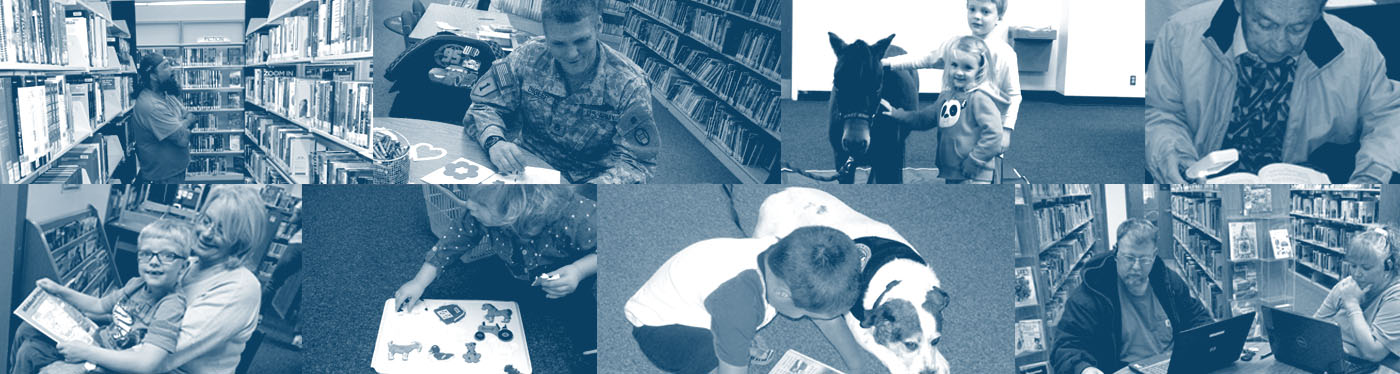
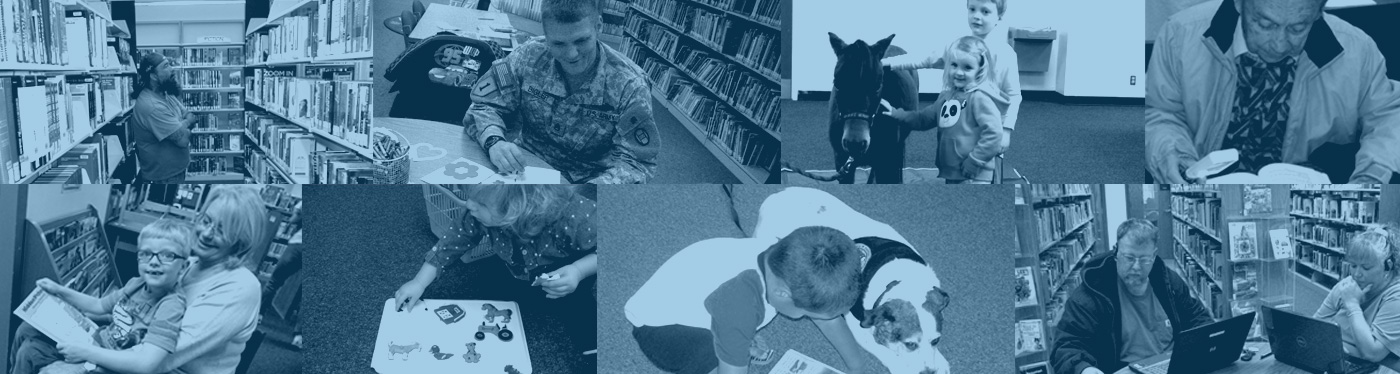
removed button shadow, changed header image, form text

diff --git a/wp-content/themes/kcpl_minisite/assets/sass/_layout.scss b/wp-content/themes/kcpl_minisite/assets/sass/_layout.scss
@@ -46,7 +46,7 @@ header {
 		.with_frm_style .frm_top_container label.frm_primary_label { display: none; }
 		.with_frm_style textarea, .with_frm_style input[type=text], .with_frm_style input[type=password], .with_frm_style input[type=email], .with_frm_style input[type=number], .with_frm_style input[type=url], .with_frm_style input[type=tel], .with_frm_style input[type=file], .with_frm_style select { border: 3px solid #fff; padding: 6px 8px; font: 18px/24px $nimbus, Helvetica, Arial, sans-serif; max-width: 100%; display: block; background: #e2e2e2; color: #323333; margin: none; overflow: hidden; box-sizing:border-box; width: 100%; }
 
-		.with_frm_style .frm_submit input[type=submit], .with_frm_style .frm_submit input[type=button], .frm_form_submit_style, .with_frm_style.frm_login_form input[type=submit] { text-align: center; padding: 3px 30px; border: none; color: #ffffff; border-radius: .5em; background: $red; font-size: 18px;font-family: $nimbus-c; text-transform: uppercase; letter-spacing: 0.09em; font-weight: 700; letter-spacing: 0.07em; float: right; margin-right: 25px; }
+		.with_frm_style .frm_submit input[type=submit], .with_frm_style .frm_submit input[type=button], .frm_form_submit_style, .with_frm_style.frm_login_form input[type=submit] { text-align: center; padding: 3px 30px; border: none; color: #ffffff; border-radius: .5em; background: $red; font-size: 18px;font-family: $nimbus-c; text-transform: uppercase; letter-spacing: 0.09em; font-weight: 700; letter-spacing: 0.07em; float: right; margin-right: 25px; box-shadow: none; }
 
 		.with_frm_style .frm_radio label, .with_frm_style .frm_checkbox label { font-family: $nimbus; font-size: 10px; line-height:10px; text-transform: uppercase; font-weight: 700; color: $d-grey; }
 		.with_frm_style .frm_radio { width: 80%; }

diff --git a/wp-content/themes/kcpl_minisite/style.css b/wp-content/themes/kcpl_minisite/style.css
@@ -1272,6 +1272,7 @@ header .header-text .header-text-callout {
   letter-spacing: 0.07em;
   float: right;
   margin-right: 25px;
+  box-shadow: none;
 }
 /* line 51, assets/sass/_layout.scss */
 .contact-form .contact-form-body .with_frm_style .frm_radio label, .contact-form .contact-form-body .with_frm_style .frm_checkbox label {

diff --git a/wp-content/themes/kcpl_minisite/footer.php b/wp-content/themes/kcpl_minisite/footer.php
@@ -33,7 +33,7 @@
     jQuery("#field_xs1dc8").attr('placeholder', 'Age');
     jQuery('#field_2ceh3d').attr('placeholder', 'Zip Code');
     jQuery('#field_bcq4pz').attr('placeholder', 'My Library Branch');
-    jQuery('#field_sp4rc3').attr('placeholder', 'My Library Story (MAX 300 CHARACTERS)');
+    jQuery('#field_sp4rc3').attr('placeholder', 'My Library Story (Max 300 characters)');
 
 </script>
 
